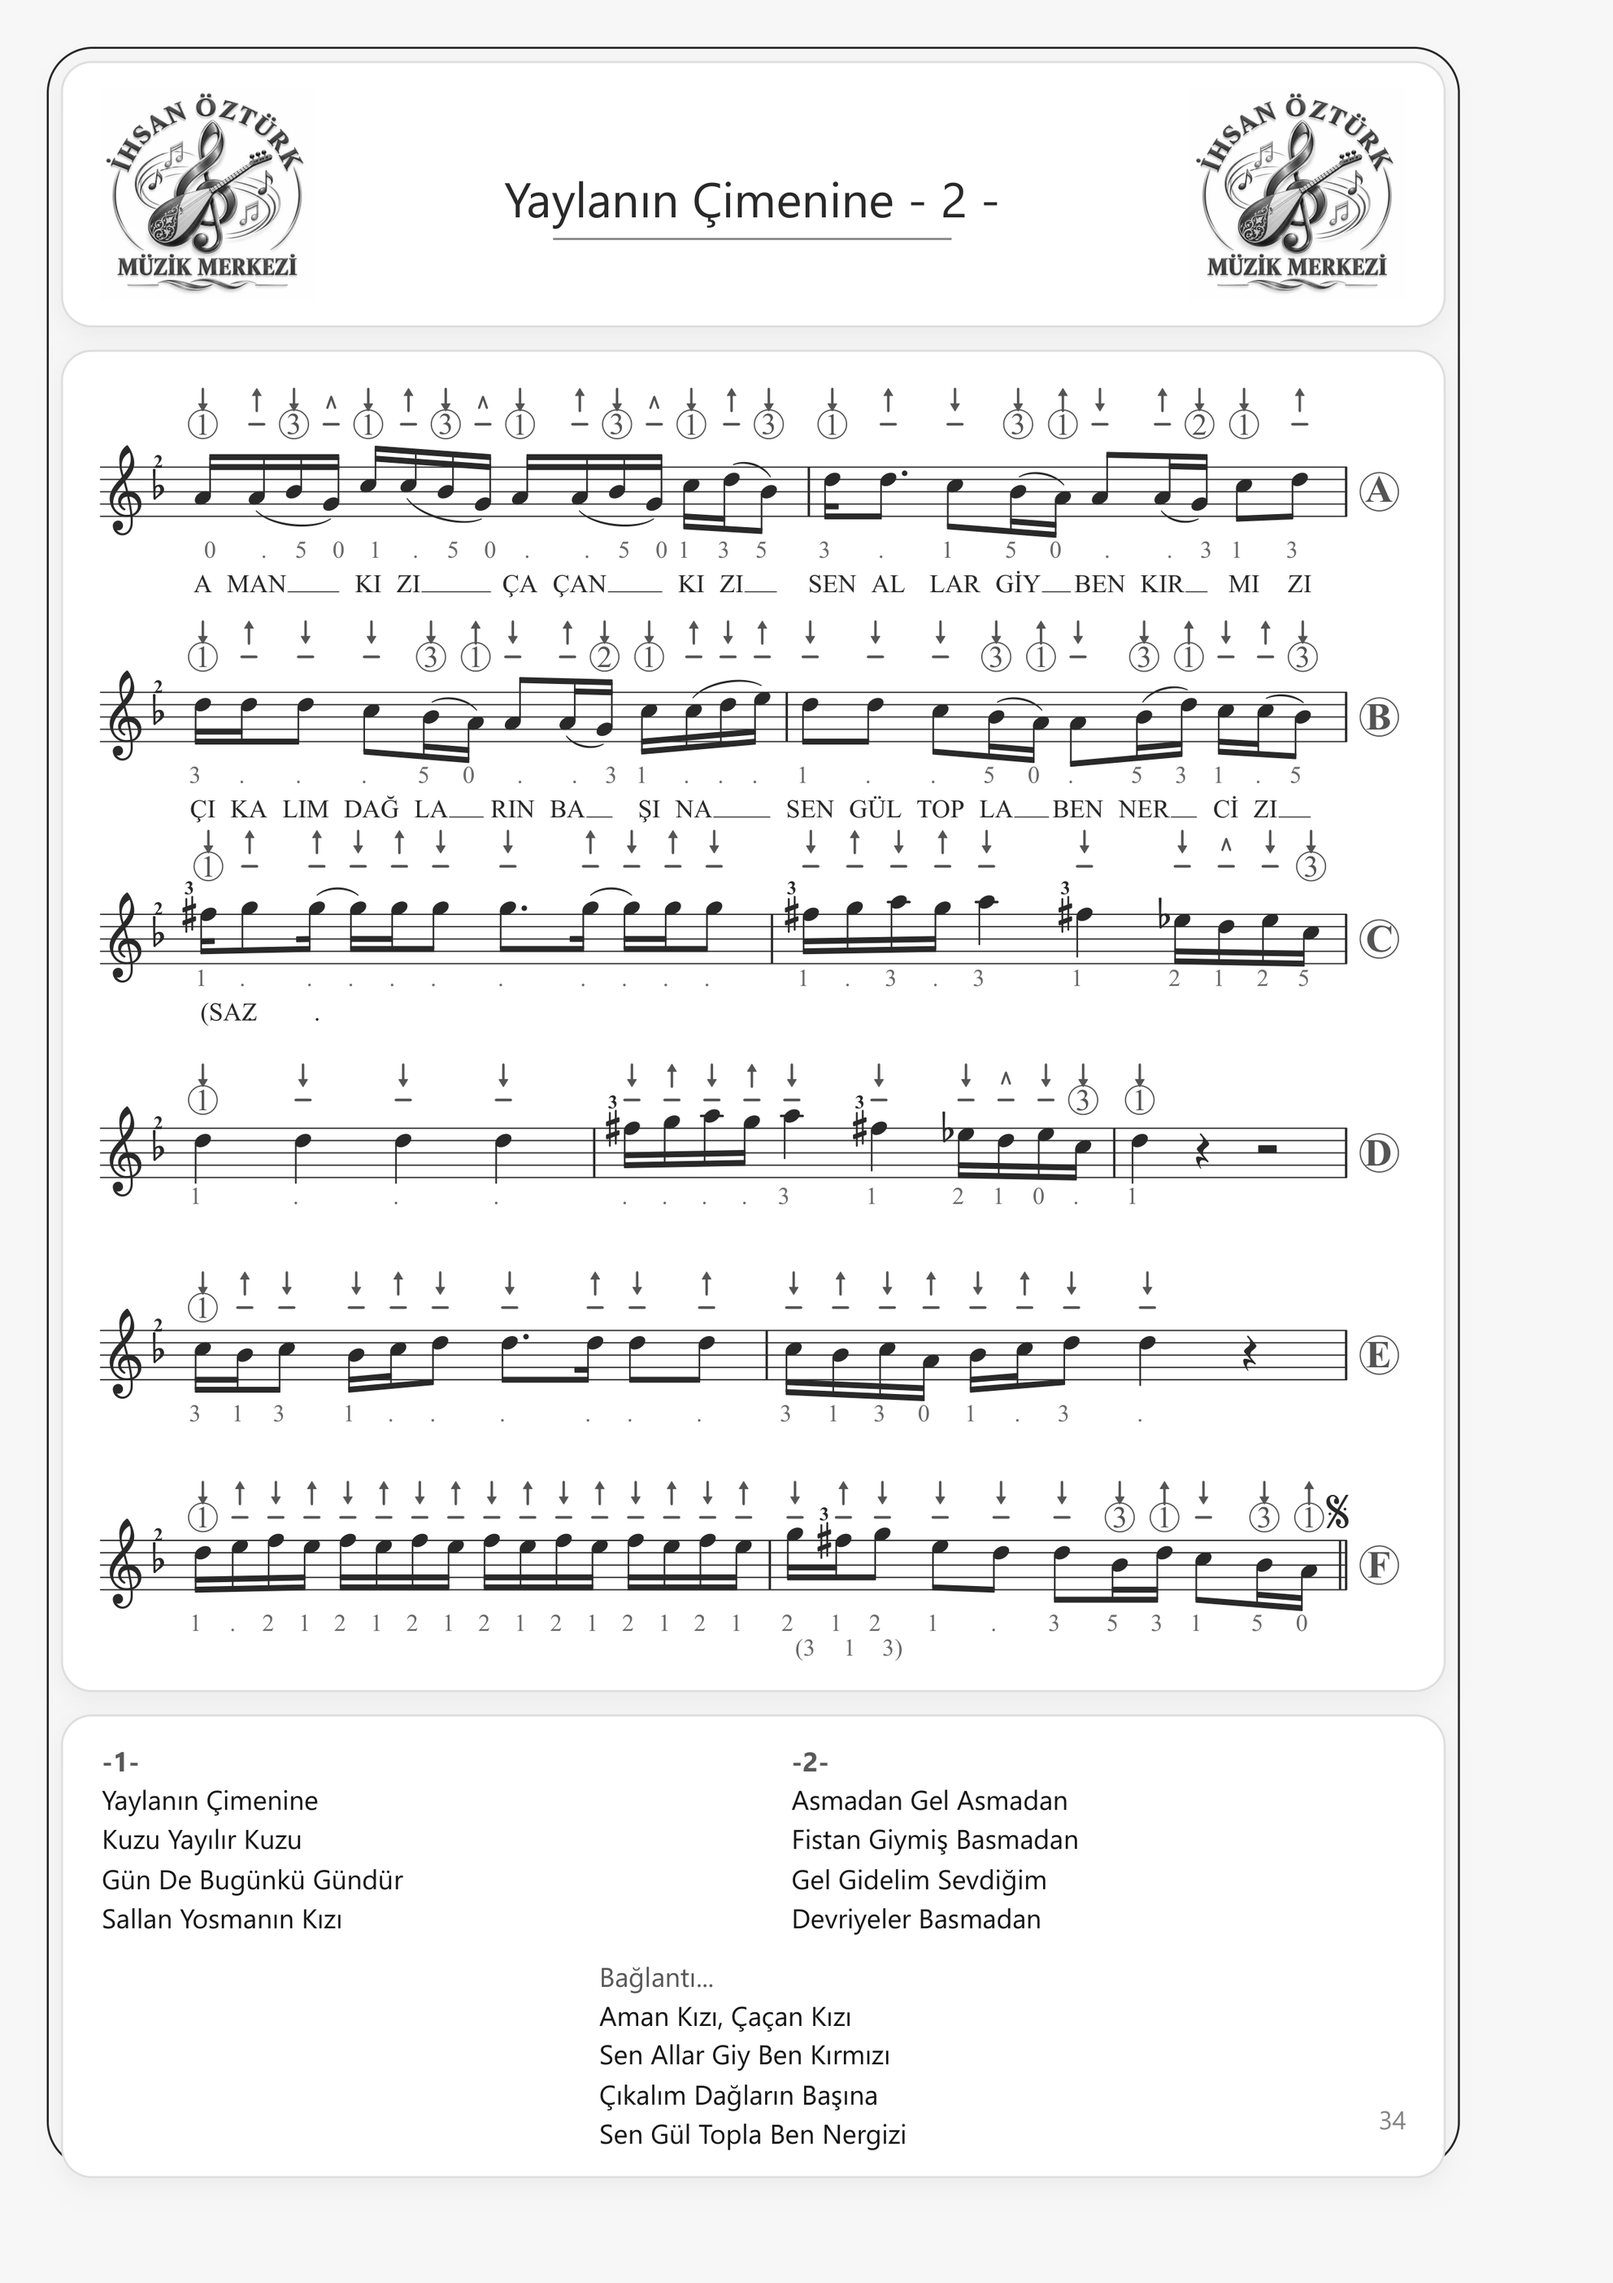
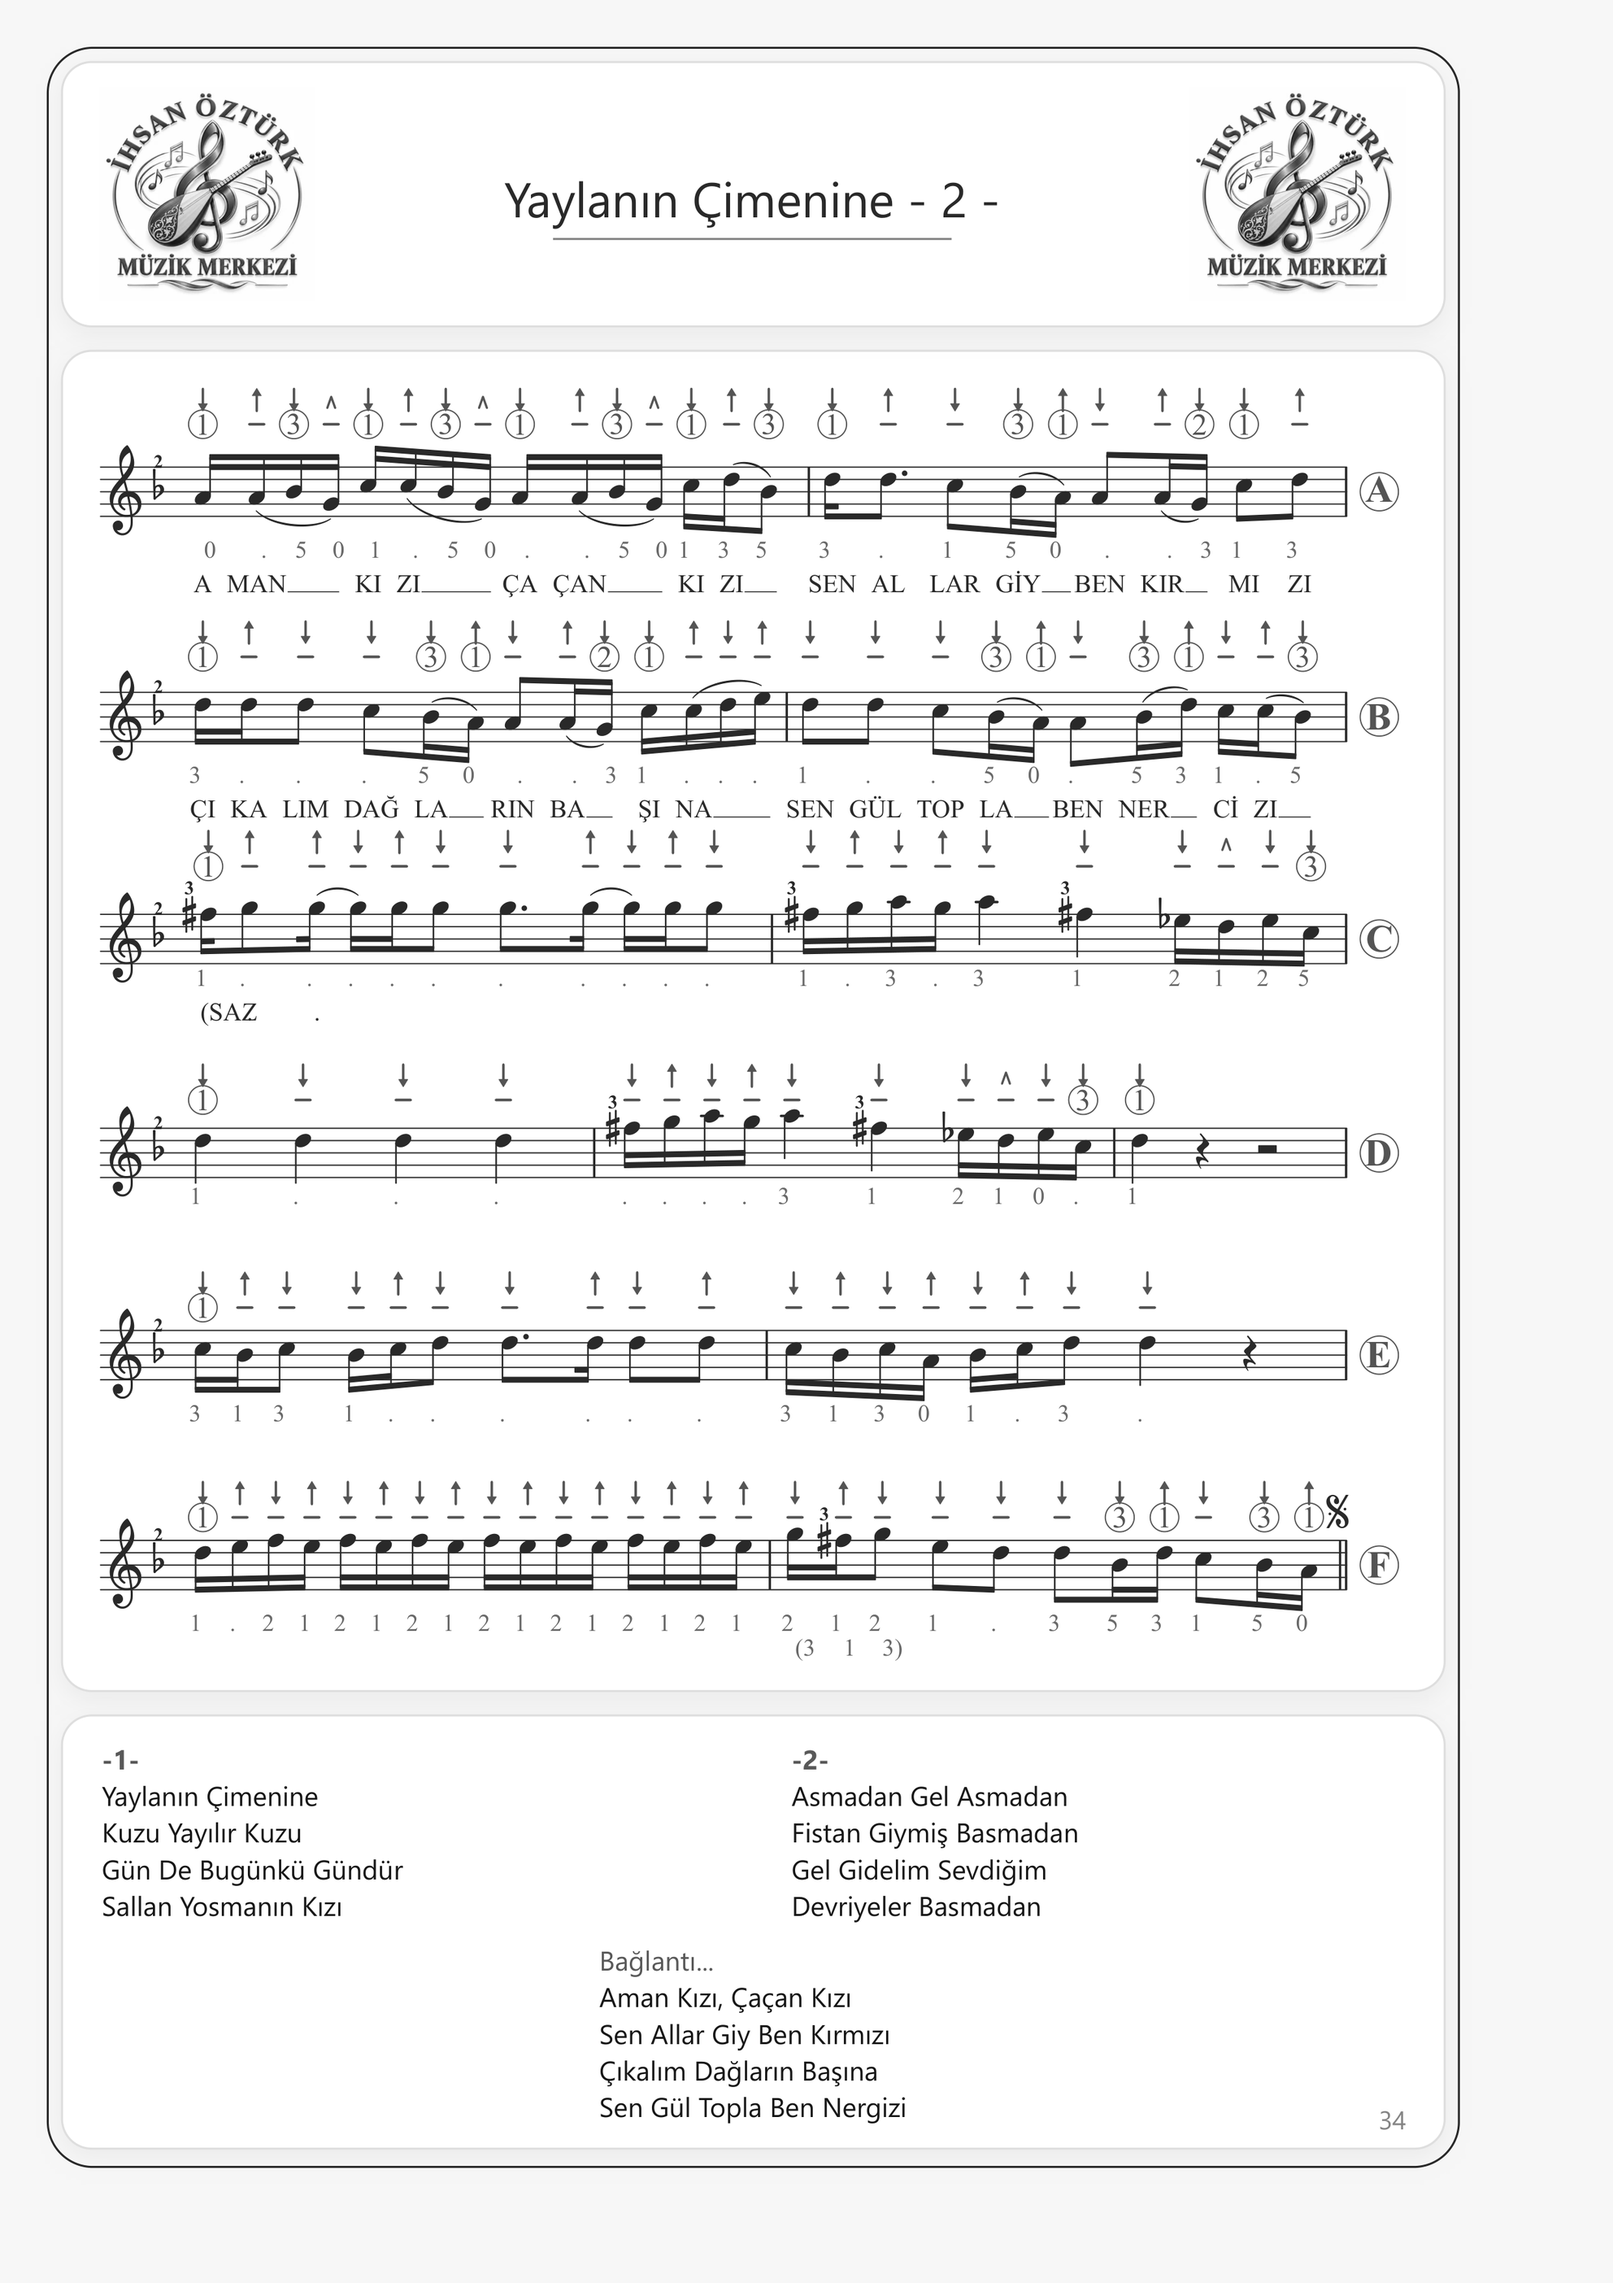
site update

Changed region(s): [[0.375, 0.7748, 0.6562, 0.9608], [0.0625, 0.7748, 0.25, 0.8678]]

diff --git a/notes.js b/notes.js
@@ -56,7 +56,8 @@ window.NOTES = {
 // V144 - K01 #24 Çanakkale İçinde: book p.30 (groups A, B, C, D, E, F; every staff of the book page is a group); cue/pts empty, perde from the SAZMETRI generator
 "K01 Çanakkale İçinde": { dir: "notes/k1-canakkale/", page: "notes/k1-canakkale/sayfa.png?v=144", pageBW: "notes/k1-canakkale/sayfa-sb.png?v=144", groups: ["A", "B", "C", "D", "E", "F"], cue: [], perde: { A: "7 10 10 10 10 7 7 9 7 4 2 4 2 4 7 7 9 7 9 4 2", B: "0 0 0 2 4 7 9 4 7 2 0 2 0 0 0 0 0", C: "0 0 0 14 17 12 10 7 7 10 7 10 4 7 10 10 14 12 14 10 7", D: "7 7 7 7 7 7 10 10 10 7 7 10 7 4 2 4", E: "2 4 7 7 9 7 9 4 2 0 0 0 2 4 7 10 4 7 2 0 2 0", F: "0 0 0 0" } },
 // V144 - K01 #25 Yaylanın Çimenine: book p.31 (groups A, B, C, D, E, F; every staff of the book page is a group); cue/pts empty, perde from the SAZMETRI generator
-"K01 Yaylanın Çimenine": { dir: "notes/k1-yaylanin/", page: "notes/k1-yaylanin/sayfa.png?v=144", pageBW: "notes/k1-yaylanin/sayfa-sb.png?v=144", groups: ["A", "B", "C", "D", "E", "F"], cue: [], perde: { A: "0 0 2 4 4 2 0 0 2 4 7 2 7 7 4 2 0 0 0 4 7", B: "7 7 7 4 2 0 0 0 4 4 7 10 7 7 4 2 0 0 2 7 4 4 2", C: "12 14 14 14 14 14 14 14 14 14 14 12 14 17 14 17 9 7 9 4", D: "7 7 7 7 12 14 17 14 17 9 7 9 4 7", E: "4 2 4 2 4 7 7 7 7 7 4 2 4 0 2 4 7 7", F: "7 10 11 10 11 10 11 10 11 10 11 10 11 10 11 10 14 12 14 10 7 7 2 7 4 2 0" } },
+// V145 - page image redone: verse panel back inside the outer frame (SAZMETRİ V0121)
+"K01 Yaylanın Çimenine": { dir: "notes/k1-yaylanin/", page: "notes/k1-yaylanin/sayfa.png?v=145", pageBW: "notes/k1-yaylanin/sayfa-sb.png?v=145", groups: ["A", "B", "C", "D", "E", "F"], cue: [], perde: { A: "0 0 2 4 4 2 0 0 2 4 7 2 7 7 4 2 0 0 0 4 7", B: "7 7 7 4 2 0 0 0 4 4 7 10 7 7 4 2 0 0 2 7 4 4 2", C: "12 14 14 14 14 14 14 14 14 14 14 12 14 17 14 17 9 7 9 4", D: "7 7 7 7 12 14 17 14 17 9 7 9 4 7", E: "4 2 4 2 4 7 7 7 7 7 4 2 4 0 2 4 7 7", F: "7 10 11 10 11 10 11 10 11 10 11 10 11 10 11 10 14 12 14 10 7 7 2 7 4 2 0" } },
 // V46 - "K02 " in front: K01 also has an "Alıştırma 05"; the book-qualified key reaches only K02 #18 (V49: renamed 05 -> 04)
 "K02 Alıştırma 04": { dir: "notes/alistirma-05/", page: "notes/alistirma-05/sayfa.png?v=79", pageBW: "notes/alistirma-05/sayfa-sb.png?v=79", groups: ["A", "B", "C", "D"], cue: [], perde: { A: "3 4 7 4 7 4 3 4 7 10 7 10 7 4 7 10 12 10 12 10 7 10 12 14 17 20 17 20", B: "20 17 14 12 10 7 10 12 17 14 12 10 7 4 7 10 14 12 10 7 4 3 4 7 11 10 7 4 3 3", C: "3 3 4 7 4 7 7 10 11 10 7 4 3 7 10 12 14 12 14 11 10 7 10 11 10 7 4 7", D: "3 3 7 4 7 3 4 3 4 10 7 10 4 3 4 7 9 12 9 7 4 3 14 12 9 7 4 3" } },
 "K02 Alıştırma 01": { dir: "notes/alistirma-01/", page: "notes/alistirma-01/sayfa.png?v=96", pageBW: "notes/alistirma-01/sayfa-sb.png?v=96", groups: ["A", "B", "C", "D"], cue: {"1f_i3hxmid9UkDfZ2OOLEhtDtcq6jf1Nv":[[7.25,"A"],[21.78,"B"]]}, pts: {"1f_i3hxmid9UkDfZ2OOLEhtDtcq6jf1Nv":[[7.25,0],[7.7,2],[8.16,0],[9.22,2],[9.71,4],[10.16,2],[11.06,4],[11.59,7],[12.01,4],[12.91,7],[13.33,10],[13.83,7],[14.74,10],[15.19,11],[15.6,10],[16.5,11],[16.99,14],[17.45,11],[18.3,14],[18.75,17],[19.21,14],[20.04,17],[21.78,17],[22.23,19],[22.45,17],[23.03,19],[23.51,14],[23.92,17],[24.36,14],[24.74,17],[25.21,11],[25.56,14],[26.01,11],[26.46,14],[26.83,10],[27.28,11],[27.71,10],[28.19,11],[28.63,7],[29.08,10],[29.53,7],[29.9,10],[30.36,4],[30.91,7],[31.24,4],[31.7,7],[32.02,2],[32.47,4],[32.91,2],[33.36,4],[33.81,0],[34.71,0]]}, perde: { A: "0 2 0 2 4 2 4 7 4 7 10 7 10 11 10 11 14 11 14 17 14 17", B: "17 19 17 19 14 17 14 17 11 14 11 14 10 11 10 11 7 10 7 10 4 7 4 7 2 4 2 4 0 0", C: "0 2 0 2 4 0 2 4 7 2 4 7 10 4 7 10 11 7 10 11 14 10 11 14 17 11 14 17", D: "17 19 17 14 14 17 14 11 11 14 11 10 10 11 10 7 7 10 7 4 4 7 4 2 2 4 2 0 0" } },

diff --git a/index.html b/index.html
@@ -569,7 +569,7 @@
 <script src="data.js?v=49"></script>
 <script src="media.js"></script>
 <script src="lyrics.js?v=144"></script>
-<script src="notes.js?v=144"></script>
+<script src="notes.js?v=145"></script>
 <script src="tools.js?v=109"></script>
 <script src="books.js?v=136"></script>
 <script>
